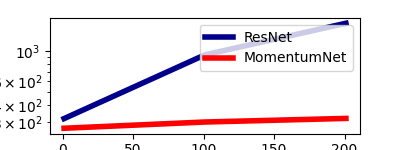
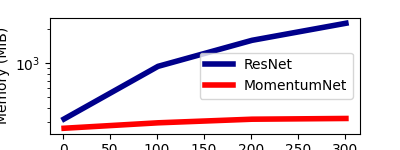
Generate Pelican site [ci skip]

diff --git a/searchindex.js b/searchindex.js
@@ -1,1 +1,1 @@
-Search.setIndex({docnames:["api","auto_examples/index","auto_examples/plot_dynamics_1D","auto_examples/plot_memory","auto_examples/sg_execution_times","generated/momentumnet.Mom","generated/momentumnet.MomentumMemory","generated/momentumnet.MomentumNet","index"],envversion:{"sphinx.domains.c":2,"sphinx.domains.changeset":1,"sphinx.domains.citation":1,"sphinx.domains.cpp":3,"sphinx.domains.index":1,"sphinx.domains.javascript":2,"sphinx.domains.math":2,"sphinx.domains.python":3,"sphinx.domains.rst":2,"sphinx.domains.std":2,"sphinx.ext.intersphinx":1,sphinx:56},filenames:["api.rst","auto_examples/index.rst","auto_examples/plot_dynamics_1D.rst","auto_examples/plot_memory.rst","auto_examples/sg_execution_times.rst","generated/momentumnet.Mom.rst","generated/momentumnet.MomentumMemory.rst","generated/momentumnet.MomentumNet.rst","index.rst"],objects:{"momentumnet.Mom":{__init__:[5,1,1,""]},"momentumnet.MomentumMemory":{__init__:[6,1,1,""]},"momentumnet.MomentumNet":{__init__:[7,1,1,""]},momentumnet:{Mom:[5,0,1,""],MomentumMemory:[6,0,1,""],MomentumNet:[7,0,1,""]}},objnames:{"0":["py","class","Python class"],"1":["py","method","Python method"]},objtypes:{"0":"py:class","1":"py:method"},terms:{"0":[2,3,4,5,7],"00":4,"01":[2,4],"02":4,"030":2,"053":2,"07870":8,"0x7fe921b88b30":[2,3],"1":[2,3,7,8],"100":[2,3],"1000":2,"104":2,"1100":2,"112":2,"1200":2,"122":2,"124":2,"126":2,"130":2,"1300":2,"131":2,"135":2,"137":2,"138":2,"139":2,"1400":2,"143":2,"144":2,"15":2,"1500":2,"16":2,"1600":2,"162":2,"163":2,"164":2,"165":2,"169":2,"1700":2,"174":2,"1800":2,"1900":2,"1d":[1,4],"2":[2,3],"20":2,"200":2,"2000":2,"2001":2,"2021":8,"203":2,"2102":8,"249":[3,4],"29":[2,4],"3":2,"30":4,"300":[2,3],"301":2,"3f":2,"4":[2,3],"40":2,"400":2,"5":[2,3],"50":3,"500":[2,3],"600":2,"635":[2,4],"700":2,"8":[2,3],"800":2,"830":2,"884":4,"900":2,"95":2,"99":[2,3],"class":[0,5,6,7],"do":8,"float":2,"function":[2,3,5,7],"import":[2,3,8],"peyr\u00e9":8,"return":2,If:8,In:8,Then:8,To:8,__call__:[5,7],__init__:[5,6,7],__main__:3,__name__:3,_c:[2,3],ab:8,ablin:[2,3,8],accur:6,admin:8,all:1,anaconda:8,ani:8,append:3,appli:6,arang:[2,3],arg:6,arxiv:8,attribut:[5,6,7],author:[2,3],auto_exampl:4,auto_examples_jupyt:1,auto_examples_python:1,backward:[2,3],bbox_extra_artist:3,bbox_inch:3,blondel:8,both:[5,7],c:8,can:8,check:8,click:[2,3],cm:2,code:[1,2,3],color:[2,3],colormap:2,compar:[2,3],comput:8,consumpt:[1,4],cpu:3,cuda:3,cycler:2,d:[2,3],darkblu:3,def:[2,3],depend:8,depth:[2,3],devic:3,dirty_tensor:6,distribut:8,document:8,download:[1,2,3],dynam:[1,4],e:8,els:3,error:8,everyth:8,exampl:[2,3],execut:4,fals:[2,3,7],figsiz:[2,3],file:4,fine:8,first:8,flag:8,from:[2,3],full:[2,3],function_r:[2,3],gabriel:8,galleri:[2,3],gamma:[2,3,5,7],gca:2,gener:[1,2,3],gist_ncar:2,github:8,give:8,h:2,have:8,help:6,here:[2,3],hidden:[2,3],http:8,i:2,icml:8,init_funct:[5,7],init_spe:[2,3,5,7],initi:[5,6,7],input:2,intern:[5,7],invers:5,ipynb:[2,3],is_avail:3,isdir:[2,3],issu:8,item:2,itr:2,its:8,jet:2,jupyt:[1,2,3],kwarg:6,label:3,learn_gamma:[2,3,7],legend:3,librari:8,licens:[2,3],linear:[2,3],linewidth:3,linspac:2,log:3,loss:[2,3],lr:2,lw:2,make_data_1d:2,manual_se:[2,3],mark_shared_storag:6,materialize_grad:6,mathieu:8,matplotlib:[2,3,8],max:3,mb:4,mean:[2,3],mem_list_mom:3,mem_list_r:3,memori:[1,4],memory_profil:3,memory_theori:3,memory_usag:3,messag:8,metadata:6,method:[5,6,7],mib:3,michael:[2,3,8],minut:[2,3],mit:[2,3],mkdir:[2,3],modul:[5,7],mom:3,mom_net:[2,3],mom_net_dynamics_1d:2,momentum:[2,3],momentumnet:[2,3,8],n_iter:[2,3,7],n_plot:2,name:6,need:8,needs_input_grad:6,net:3,network:8,neural:8,next_funct:6,nn:[2,3,5,7],no_grad:2,non_differenti:6,none:[5,7],notebook:[1,2,3],np:[2,3],num_plot:2,numpi:[2,3,8],object:[2,3],optim:2,org:8,os:[2,3],otherwis:8,out:[2,3],output:2,path:[2,3],pdf:[2,3],picard:8,pierr:[2,3,8],pip:8,plot:[1,4],plot_dynamics_1d:[2,4],plot_memori:[3,4],plt:[2,3],pred:2,pred_:2,preds_r:2,print:2,privileg:8,proc:8,provid:8,py:[2,3,4],pyplot:[2,3],python:[1,2,3,8],rand:3,rang:2,recommend:8,red:3,register_hook:6,requires_grad:6,res_net:[2,3],res_net_dynamics_1d:2,residu:8,resnet:[2,3],run:[2,3],s:2,sander:[2,3,8],saved_tensor:6,saved_vari:6,savefig:[2,3],script:[2,3],scriptmodul:[5,7],second:[2,3],see:6,self:6,sequenti:[2,3],set_prop_cycl:2,sgd:2,share:[5,7],share_memori:[5,7],should:8,signatur:6,sourc:[1,2,3],sphinx:[1,2,3],state:[5,7],step:2,tanh:[2,3],tensor:2,thi:[2,3,8],tight:3,time:[2,3],to_sav:6,torch:[2,3,8],total:[2,3,4],toy_dataset:2,tracker:8,train:[2,3],type:6,upgrad:8,us:[3,8],used_mem:3,user:8,view:2,we:8,when:3,work:8,x:[2,3],x_:[2,3],x_axi:2,xlabel:[2,3],xtick:2,y_:3,ylabel:[2,3],you:8,yscale:3,ytick:2,zero:2,zero_grad:2,zip:1},titles:["API Documentation","Examples Gallery","Plotting the dynamics in 1D","Plotting memory consumptions","Computation times","momentumnet.Mom","momentumnet.MomentumMemory","momentumnet.MomentumNet","Momentum ResNets"],titleterms:{"1d":2,api:[0,8],bug:8,cite:8,comput:4,consumpt:3,document:0,dynam:2,exampl:1,figur:[2,3],fix:[2,3],galleri:1,instal:8,memori:3,mom:5,momentum:[0,8],momentummemori:6,momentumnet:[5,6,7],network:0,paramet:[2,3],plot:[2,3],random:[2,3],report:8,reproduc:[2,3],residu:0,resnet:8,seed:[2,3],simul:[2,3],time:4}})
+Search.setIndex({docnames:["api","auto_examples/index","auto_examples/plot_dynamics_1D","auto_examples/plot_memory","auto_examples/sg_execution_times","generated/momentumnet.Mom","generated/momentumnet.MomentumMemory","generated/momentumnet.MomentumNet","index"],envversion:{"sphinx.domains.c":2,"sphinx.domains.changeset":1,"sphinx.domains.citation":1,"sphinx.domains.cpp":3,"sphinx.domains.index":1,"sphinx.domains.javascript":2,"sphinx.domains.math":2,"sphinx.domains.python":3,"sphinx.domains.rst":2,"sphinx.domains.std":2,"sphinx.ext.intersphinx":1,sphinx:56},filenames:["api.rst","auto_examples/index.rst","auto_examples/plot_dynamics_1D.rst","auto_examples/plot_memory.rst","auto_examples/sg_execution_times.rst","generated/momentumnet.Mom.rst","generated/momentumnet.MomentumMemory.rst","generated/momentumnet.MomentumNet.rst","index.rst"],objects:{"momentumnet.Mom":{__init__:[5,1,1,""]},"momentumnet.MomentumMemory":{__init__:[6,1,1,""]},"momentumnet.MomentumNet":{__init__:[7,1,1,""]},momentumnet:{Mom:[5,0,1,""],MomentumMemory:[6,0,1,""],MomentumNet:[7,0,1,""]}},objnames:{"0":["py","class","Python class"],"1":["py","method","Python method"]},objtypes:{"0":"py:class","1":"py:method"},terms:{"0":[2,3,4,5,7],"00":4,"01":2,"030":2,"04":4,"05":4,"053":2,"07870":8,"0x7fbc90578b30":[2,3],"1":[2,3,7,8],"100":[2,3],"1000":2,"102":4,"104":2,"1100":2,"112":2,"1200":2,"122":2,"124":2,"126":2,"130":2,"1300":2,"131":2,"135":2,"137":2,"138":2,"139":2,"1400":2,"143":2,"144":2,"15":2,"1500":2,"16":2,"1600":2,"162":2,"163":2,"164":2,"165":2,"169":2,"1700":2,"174":2,"1800":2,"1900":2,"1d":[1,4],"2":[2,3],"20":2,"200":2,"2000":2,"2001":2,"2021":8,"203":2,"205":[2,4],"2102":8,"26":[3,4],"3":2,"300":2,"301":2,"33":[2,4],"3f":2,"4":[2,3],"40":2,"400":2,"401":3,"5":[2,3],"50":3,"500":[2,3],"600":2,"700":2,"8":[2,3],"800":2,"830":2,"897":[3,4],"900":2,"95":2,"99":[2,3],"class":[0,5,6,7],"do":8,"float":2,"function":[2,3,5,7],"import":[2,3,8],"peyr\u00e9":8,"return":2,If:8,In:8,Then:8,To:8,__call__:[5,7],__init__:[5,6,7],__main__:3,__name__:3,_c:[2,3],ab:8,ablin:[2,3,8],accur:6,admin:8,all:1,anaconda:8,ani:8,append:3,appli:6,arang:[2,3],arg:6,arxiv:8,attribut:[5,6,7],author:[2,3],auto_exampl:4,auto_examples_jupyt:1,auto_examples_python:1,backward:[2,3],bbox_extra_artist:3,bbox_inch:3,blondel:8,both:[5,7],c:8,can:8,check:8,click:[2,3],cm:2,code:[1,2,3],color:[2,3],colormap:2,compar:[2,3],comput:8,consumpt:[1,4],cpu:3,cuda:3,cycler:2,d:[2,3],darkblu:3,def:[2,3],depend:8,depth:[2,3],devic:3,dirty_tensor:6,distribut:8,document:8,download:[1,2,3],dynam:[1,4],e:8,els:3,error:8,everyth:8,exampl:[2,3],execut:4,fals:[2,3,7],figsiz:[2,3],file:4,fine:8,first:8,flag:8,from:[2,3],full:[2,3],function_r:[2,3],gabriel:8,galleri:[2,3],gamma:[2,3,5,7],gca:2,gener:[1,2,3],gist_ncar:2,github:8,give:8,h:2,have:8,help:6,here:[2,3],hidden:[2,3],http:8,i:2,icml:8,init_funct:[5,7],init_spe:[2,3,5,7],initi:[5,6,7],input:2,intern:[5,7],invers:5,ipynb:[2,3],is_avail:3,isdir:[2,3],issu:8,item:2,itr:2,its:8,jet:2,jupyt:[1,2,3],kwarg:6,label:3,learn_gamma:[2,3,7],legend:3,librari:8,licens:[2,3],linear:[2,3],linewidth:3,linspac:2,log:3,loss:[2,3],lr:2,lw:2,make_data_1d:2,manual_se:[2,3],mark_shared_storag:6,materialize_grad:6,mathieu:8,matplotlib:[2,3,8],max:3,mb:4,mean:[2,3],mem_list_mom:3,mem_list_r:3,memori:[1,4],memory_profil:3,memory_theori:3,memory_usag:3,messag:8,metadata:6,method:[5,6,7],mib:3,michael:[2,3,8],minut:[2,3],mit:[2,3],mkdir:[2,3],modul:[5,7],mom:3,mom_net:[2,3],mom_net_dynamics_1d:2,momentum:[2,3],momentumnet:[2,3,8],n_iter:[2,3,7],n_plot:2,name:6,need:8,needs_input_grad:6,net:3,network:8,neural:8,next_funct:6,nn:[2,3,5,7],no_grad:2,non_differenti:6,none:[5,7],notebook:[1,2,3],np:[2,3],num_plot:2,numpi:[2,3,8],object:[2,3],optim:2,org:8,os:[2,3],otherwis:8,out:[2,3],output:2,path:[2,3],pdf:[2,3],picard:8,pierr:[2,3,8],pip:8,plot:[1,4],plot_dynamics_1d:[2,4],plot_memori:[3,4],plt:[2,3],pred:2,pred_:2,preds_r:2,print:2,privileg:8,proc:8,provid:8,py:[2,3,4],pyplot:[2,3],python:[1,2,3,8],rand:3,rang:2,recommend:8,red:3,register_hook:6,requires_grad:6,res_net:[2,3],res_net_dynamics_1d:2,residu:8,resnet:[2,3],run:[2,3],s:2,sander:[2,3,8],saved_tensor:6,saved_vari:6,savefig:[2,3],script:[2,3],scriptmodul:[5,7],second:[2,3],see:6,self:6,sequenti:[2,3],set_prop_cycl:2,sgd:2,share:[5,7],share_memori:[5,7],should:8,signatur:6,sourc:[1,2,3],sphinx:[1,2,3],state:[5,7],step:2,tanh:[2,3],tensor:2,thi:[2,3,8],tight:3,time:[2,3],to_sav:6,torch:[2,3,8],total:[2,3,4],toy_dataset:2,tracker:8,train:[2,3],type:6,upgrad:8,us:[3,8],used_mem:3,user:8,view:2,we:8,when:3,work:8,x:[2,3],x_:[2,3],x_axi:2,xlabel:[2,3],xtick:2,y_:3,ylabel:[2,3],you:8,yscale:3,ytick:2,zero:2,zero_grad:2,zip:1},titles:["API Documentation","Examples Gallery","Plotting the dynamics in 1D","Plotting memory consumptions","Computation times","momentumnet.Mom","momentumnet.MomentumMemory","momentumnet.MomentumNet","Momentum ResNets"],titleterms:{"1d":2,api:[0,8],bug:8,cite:8,comput:4,consumpt:3,document:0,dynam:2,exampl:1,figur:[2,3],fix:[2,3],galleri:1,instal:8,memori:3,mom:5,momentum:[0,8],momentummemori:6,momentumnet:[5,6,7],network:0,paramet:[2,3],plot:[2,3],random:[2,3],report:8,reproduc:[2,3],residu:0,resnet:8,seed:[2,3],simul:[2,3],time:4}})

diff --git a/auto_examples/plot_memory.html b/auto_examples/plot_memory.html
@@ -145,13 +145,13 @@ to download the full example code</p>
 </pre></div>
 </div>
 <p class="sphx-glr-script-out">Out:</p>
-<div class="sphx-glr-script-out highlight-none notranslate"><div class="highlight"><pre><span></span>&lt;torch._C.Generator object at 0x7fe921b88b30&gt;
+<div class="sphx-glr-script-out highlight-none notranslate"><div class="highlight"><pre><span></span>&lt;torch._C.Generator object at 0x7fbc90578b30&gt;
 </pre></div>
 </div>
 </section>
 <section id="parameters-of-the-simulation">
 <h2>Parameters of the simulation<a class="headerlink" href="#parameters-of-the-simulation" title="Permalink to this headline">¶</a></h2>
-<div class="highlight-default notranslate"><div class="highlight"><pre><span></span><a href="https://numpy.org/doc/stable/reference/generated/numpy.ndarray.html#numpy.ndarray" title="numpy.ndarray" class="sphx-glr-backref-module-numpy sphx-glr-backref-type-py-class sphx-glr-backref-instance"><span class="n">Depths</span></a> <span class="o">=</span> <a href="https://numpy.org/doc/stable/reference/generated/numpy.arange.html#numpy.arange" title="numpy.arange" class="sphx-glr-backref-module-numpy sphx-glr-backref-type-py-function"><span class="n">np</span><span class="o">.</span><span class="n">arange</span></a><span class="p">(</span><span class="mi">1</span><span class="p">,</span> <span class="mi">300</span><span class="p">,</span> <span class="mi">100</span><span class="p">)</span>
+<div class="highlight-default notranslate"><div class="highlight"><pre><span></span><a href="https://numpy.org/doc/stable/reference/generated/numpy.ndarray.html#numpy.ndarray" title="numpy.ndarray" class="sphx-glr-backref-module-numpy sphx-glr-backref-type-py-class sphx-glr-backref-instance"><span class="n">Depths</span></a> <span class="o">=</span> <a href="https://numpy.org/doc/stable/reference/generated/numpy.arange.html#numpy.arange" title="numpy.arange" class="sphx-glr-backref-module-numpy sphx-glr-backref-type-py-function"><span class="n">np</span><span class="o">.</span><span class="n">arange</span></a><span class="p">(</span><span class="mi">1</span><span class="p">,</span> <span class="mi">401</span><span class="p">,</span> <span class="mi">100</span><span class="p">)</span>
 
 
 <a href="https://docs.python.org/3/library/functions.html#int" title="builtins.int" class="sphx-glr-backref-module-builtins sphx-glr-backref-type-py-class sphx-glr-backref-instance"><span class="n">hidden</span></a> <span class="o">=</span> <span class="mi">8</span>
@@ -221,7 +221,7 @@ to download the full example code</p>
 </pre></div>
 </div>
 <img alt="plot memory" class="sphx-glr-single-img" src="../_images/sphx_glr_plot_memory_001.png" />
-<p class="sphx-glr-timing"><strong>Total running time of the script:</strong> ( 2 minutes  1.249 seconds)</p>
+<p class="sphx-glr-timing"><strong>Total running time of the script:</strong> ( 4 minutes  26.897 seconds)</p>
 <div class="sphx-glr-footer class sphx-glr-footer-example docutils container" id="sphx-glr-download-auto-examples-plot-memory-py">
 <div class="sphx-glr-download sphx-glr-download-python docutils container">
 <p><a class="reference download internal" download="" href="../_downloads/151f4a6db04c03bd6e6ca68acb3408bf/plot_memory.py"><code class="xref download docutils literal notranslate"><span class="pre">Download</span> <span class="pre">Python</span> <span class="pre">source</span> <span class="pre">code:</span> <span class="pre">plot_memory.py</span></code></a></p>

diff --git a/auto_examples/plot_dynamics_1D.html b/auto_examples/plot_dynamics_1D.html
@@ -143,7 +143,7 @@ to download the full example code</p>
 </pre></div>
 </div>
 <p class="sphx-glr-script-out">Out:</p>
-<div class="sphx-glr-script-out highlight-none notranslate"><div class="highlight"><pre><span></span>&lt;torch._C.Generator object at 0x7fe921b88b30&gt;
+<div class="sphx-glr-script-out highlight-none notranslate"><div class="highlight"><pre><span></span>&lt;torch._C.Generator object at 0x7fbc90578b30&gt;
 </pre></div>
 </div>
 </section>
@@ -342,7 +342,7 @@ itr 1900, loss = 0.144
 itr 2000, loss = 0.162
 </pre></div>
 </div>
-<p class="sphx-glr-timing"><strong>Total running time of the script:</strong> ( 0 minutes  29.635 seconds)</p>
+<p class="sphx-glr-timing"><strong>Total running time of the script:</strong> ( 0 minutes  33.205 seconds)</p>
 <div class="sphx-glr-footer class sphx-glr-footer-example docutils container" id="sphx-glr-download-auto-examples-plot-dynamics-1d-py">
 <div class="sphx-glr-download sphx-glr-download-python docutils container">
 <p><a class="reference download internal" download="" href="../_downloads/2feafad2d2b0f8e8ac83cdc48963b2de/plot_dynamics_1D.py"><code class="xref download docutils literal notranslate"><span class="pre">Download</span> <span class="pre">Python</span> <span class="pre">source</span> <span class="pre">code:</span> <span class="pre">plot_dynamics_1D.py</span></code></a></p>

diff --git a/auto_examples/sg_execution_times.html b/auto_examples/sg_execution_times.html
@@ -111,7 +111,7 @@
   
   <section id="computation-times">
 <span id="sphx-glr-auto-examples-sg-execution-times"></span><h1>Computation times<a class="headerlink" href="#computation-times" title="Permalink to this headline">¶</a></h1>
-<p><strong>02:30.884</strong> total execution time for <strong>auto_examples</strong> files:</p>
+<p><strong>05:00.102</strong> total execution time for <strong>auto_examples</strong> files:</p>
 <table class="docutils align-default">
 <colgroup>
 <col style="width: 80%" />
@@ -120,11 +120,11 @@
 </colgroup>
 <tbody>
 <tr class="row-odd"><td><p><a class="reference internal" href="plot_memory.html#sphx-glr-auto-examples-plot-memory-py"><span class="std std-ref">Plotting memory consumptions</span></a> (<code class="docutils literal notranslate"><span class="pre">plot_memory.py</span></code>)</p></td>
-<td><p>02:01.249</p></td>
+<td><p>04:26.897</p></td>
 <td><p>0.0 MB</p></td>
 </tr>
 <tr class="row-even"><td><p><a class="reference internal" href="plot_dynamics_1D.html#sphx-glr-auto-examples-plot-dynamics-1d-py"><span class="std std-ref">Plotting the dynamics in 1D</span></a> (<code class="docutils literal notranslate"><span class="pre">plot_dynamics_1D.py</span></code>)</p></td>
-<td><p>00:29.635</p></td>
+<td><p>00:33.205</p></td>
 <td><p>0.0 MB</p></td>
 </tr>
 </tbody>

diff --git a/_downloads/151f4a6db04c03bd6e6ca68acb3408bf/plot_memory.py b/_downloads/151f4a6db04c03bd6e6ca68acb3408bf/plot_memory.py
@@ -36,7 +36,7 @@ torch.manual_seed(1)
 ##############################
 
 
-Depths = np.arange(1, 300, 100)
+Depths = np.arange(1, 401, 100)
 
 
 hidden = 8
